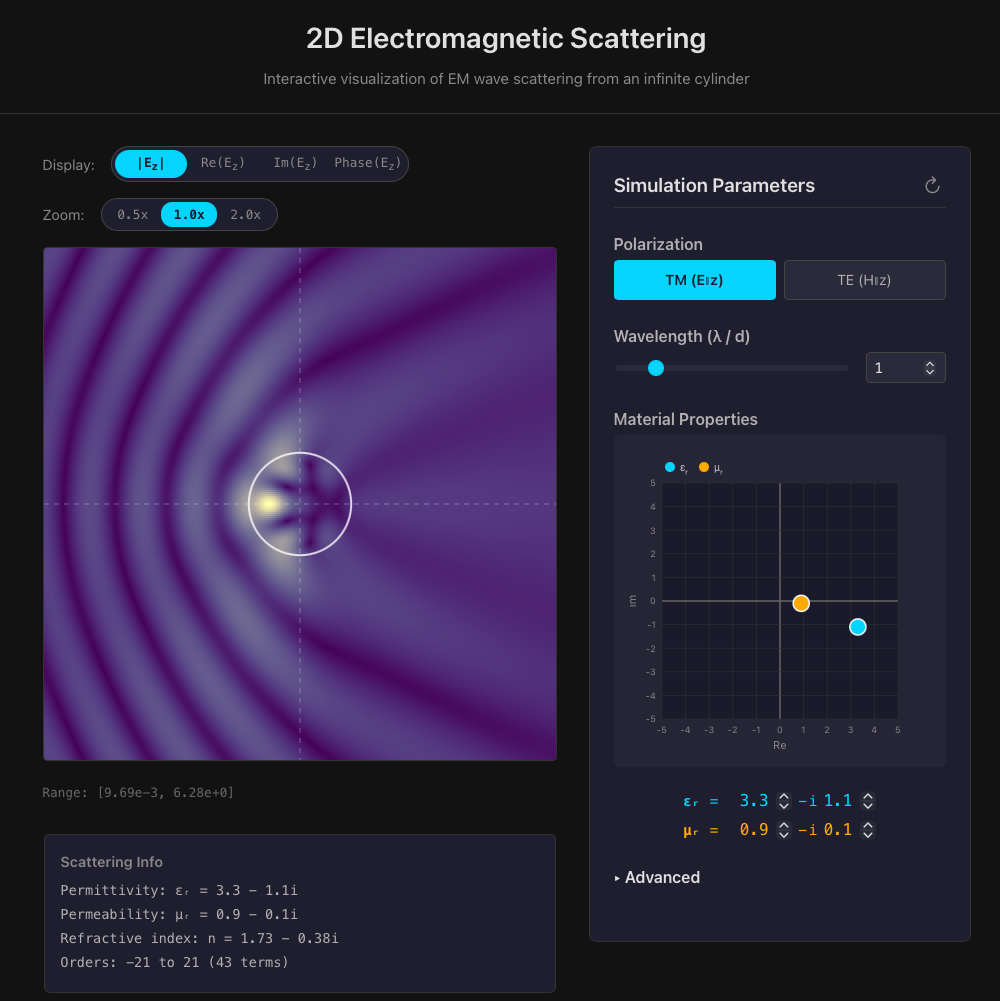
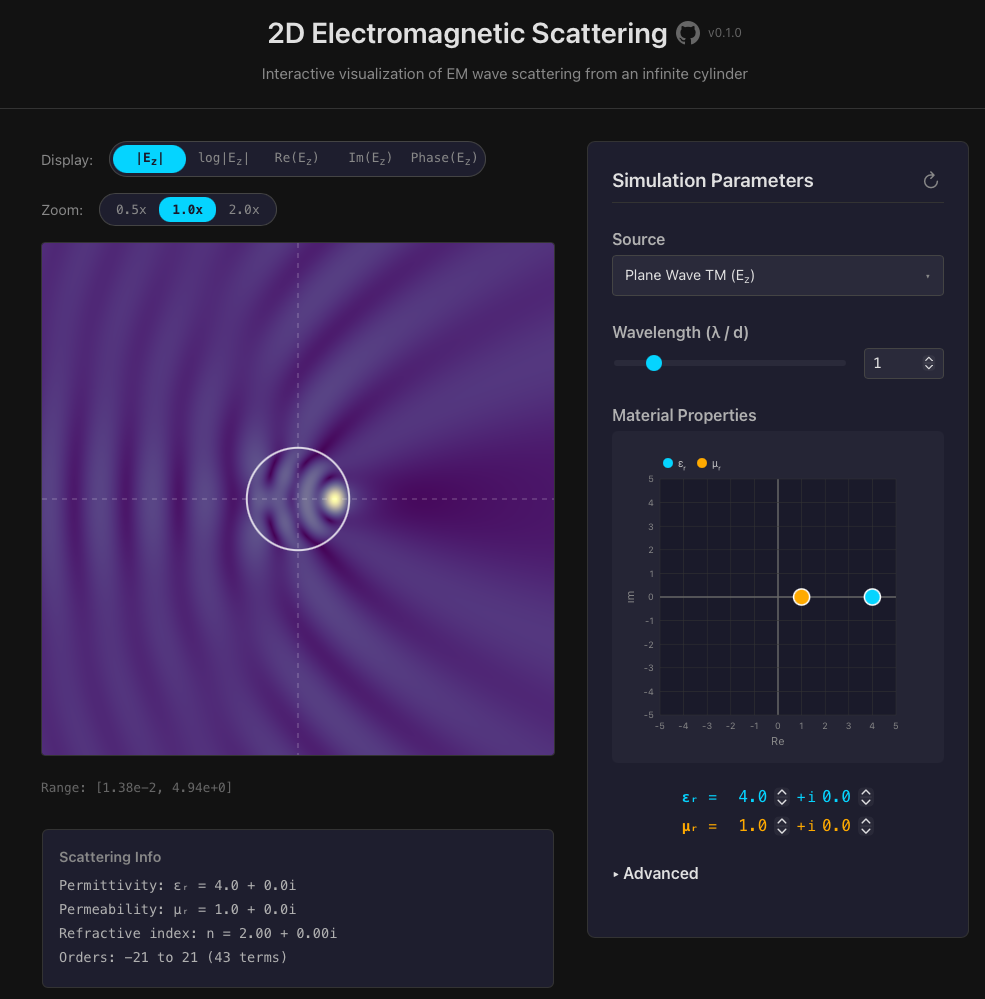
Update readme to reflect dipole additions and add details.

diff --git a/src/App.tsx b/src/App.tsx
@@ -56,7 +56,27 @@ function App() {
   return (
     <div className="app">
       <header className="app-header">
-        <h1>2D Electromagnetic Scattering</h1>
+        <h1>
+          2D Electromagnetic Scattering
+          <a
+            href="https://github.com/sdgorsky/webapp-single-cylinder-scattering-2D"
+            target="_blank"
+            rel="noopener noreferrer"
+            className="github-link"
+            title="View on GitHub"
+          >
+            <svg
+              viewBox="0 0 16 16"
+              width="24"
+              height="24"
+              fill="currentColor"
+              aria-hidden="true"
+            >
+              <path d="M8 0C3.58 0 0 3.58 0 8c0 3.54 2.29 6.53 5.47 7.59.4.07.55-.17.55-.38 0-.19-.01-.82-.01-1.49-2.01.37-2.53-.49-2.69-.94-.09-.23-.48-.94-.82-1.13-.28-.15-.68-.52-.01-.53.63-.01 1.08.58 1.23.82.72 1.21 1.87.87 2.33.66.07-.52.28-.87.51-1.07-1.78-.2-3.64-.89-3.64-3.95 0-.87.31-1.59.82-2.15-.08-.2-.36-1.02.08-2.12 0 0 .67-.21 2.2.82.64-.18 1.32-.27 2-.27.68 0 1.36.09 2 .27 1.53-1.04 2.2-.82 2.2-.82.44 1.1.16 1.92.08 2.12.51.56.82 1.27.82 2.15 0 3.07-1.87 3.75-3.65 3.95.29.25.54.73.54 1.48 0 1.07-.01 1.93-.01 2.2 0 .21.15.46.55.38A8.013 8.013 0 0016 8c0-4.42-3.58-8-8-8z" />
+            </svg>
+          </a>
+          <span className="version-tag">v{__APP_VERSION__}</span>
+        </h1>
         <p>
           Interactive visualization of EM wave scattering from an infinite
           cylinder

diff --git a/vite.config.ts b/vite.config.ts
@@ -4,6 +4,9 @@ import react from '@vitejs/plugin-react'
 import wasm from 'vite-plugin-wasm'
 import topLevelAwait from 'vite-plugin-top-level-await'
 import path from 'path'
+import { readFileSync } from 'fs'
+
+const pkg = JSON.parse(readFileSync('./package.json', 'utf-8'))
 
 // Plugin to provide "env" module for WASM imports (math functions from libm)
 function wasmEnvPlugin(): Plugin {
@@ -51,6 +54,9 @@ function wasmEnvPlugin(): Plugin {
 // https://vite.dev/config/
 export default defineConfig({
   base: process.env.CI ? '/Mie-Theory-2D-Cylinder/' : '/',
+  define: {
+    __APP_VERSION__: JSON.stringify(pkg.version),
+  },
   plugins: [
     react(),
     wasm(),

diff --git a/src/App.css b/src/App.css
@@ -14,6 +14,26 @@
   margin: 0;
   font-size: 1.8rem;
   color: #e0e0e0;
+  display: inline-flex;
+  align-items: center;
+  gap: 0.5rem;
+}
+
+.github-link {
+  color: #666;
+  transition: color 0.2s;
+  display: inline-flex;
+}
+
+.github-link:hover {
+  color: #e0e0e0;
+}
+
+.version-tag {
+  font-size: 0.75rem;
+  color: #666;
+  font-weight: 400;
+  letter-spacing: 0.02em;
 }
 
 .app-header p {

diff --git a/src/vite-env.d.ts b/src/vite-env.d.ts
@@ -1,0 +1,3 @@
+/// <reference types="vite/client" />
+
+declare const __APP_VERSION__: string;

diff --git a/README.md b/README.md
@@ -3,7 +3,7 @@
 ![Screenshot](figures/application_screenshot.png)
 
 ## About
-This is an interactive visualization of electromagnetic plane wave scattering from an infinite dielectric cylinder. The user can change key physical parameters and see how the electromagnetic scattering solution changes in real time. The tunable values are:
+This is an interactive visualization of electromagnetic scattering from an infinite dielectric cylinder. The user can change key physical parameters and see how the electromagnetic scattering solution changes in real time. The tunable values are:
 
 - $\lambda$:   The wavelength of incident light (relative to cylinder diameter)
 - $\epsilon_r$: The relative permittivity of the cylinder 
@@ -15,13 +15,14 @@ This is an interactive visualization of electromagnetic plane wave scattering fr
 This section outlines the physical scenario presented in this application. It lays out the geometry of the problem and gives a high-level overview of the Mie theory approach for its solution. Mie theory provides an exact analytical solution for electromagnetic scattering from canonical geometries such as cylinders and spheres. This is not intended to be a complete derivation, but an eager reader could easily find such descriptions with some literature search.
 
 ### Geometry
-We are interested in calculating the electromagnetic field solutions for a plane wave incident on an infinitely long cylinder embedded in free space. The cylinder's electric and magnetic properties are determined respectively by its complex relative permittivity $\epsilon_{r}$ and magnetic permeability $\mu_{r}$, both of which the user may tune. In the exterior free space these values are $\epsilon_{r}=\mu_{r}=1$.
+We are interested in calculating the electromagnetic field solutions for electromagnetic sources in the presence of an infinitely long cylinder embedded in free space. The cylinder's electric and magnetic properties are determined respectively by its complex relative permittivity $\epsilon_{r}$ and magnetic permeability $\mu_{r}$, both of which the user may tune. In the exterior free space these values are $\epsilon_{r}=\mu_{r}=1$.
 
 <p align="center">
   <img src="figures/geometry.svg" width="500" alt="Geometry">
 </p>
 
-The problem to be solved is as follows. Given the geometry and an incident plane wave $e^{i2\pi x/\lambda}$, solve Maxwell's equations to determine the total electric field $\mathbf{E}$ and magnetic field $\mathbf{H}$. Under these circumstances, Maxwell's equations are:
+The problem to be solved is as follows. Given the geometry and some radiating source, solve Maxwell's equations to determine the total electric field $\mathbf{E}$ and magnetic field $\mathbf{H}$. Under these circumstances, Maxwell's equations are:
+
 $$
 \begin{aligned}
 \nabla \cdot \mathbf{E}&=0 \\
@@ -40,18 +41,32 @@ $$ [\nabla^{2} + k^{2}(\mathbf{r})]\phi(\mathbf{r})=0 $$
 
 where $k(\mathbf{r})=2\pi n(\mathbf{r})/\lambda$ is the position-dependent wavenumber, $n(\mathbf{r})=\sqrt{\epsilon_{r}\mu_{r}}$ is the local index of refraction, and $\phi(\mathbf{r})$ represents the field oriented parallel to the cylinder axis. The orientation is a toggle option in the application, where $\phi(\mathbf{r})$ is either the magnetic field $H_z$ (TE: Transverse Electric) or $E_z$ (TM: Transverse Magnetic) as indicated in the geometry figure.
 
-The approach of Mie theory is to expand the field into three distinct components: the incident source field $\phi_{inc}$, the field scattered away from the cylinder boundary $\phi_{sca}$ (both exterior), and the field interior to the cylinder $\phi_{int}$.
+The approach of Mie theory is to decompose the total field into a known source field $\phi^{src}$ and unknown scattered fields — $\phi^{sca}_E$ scattered outward and $\phi^{sca}_I$ scattered inward from the cylinder boundary.
 
 These fields are each expanded into infinite series using the Bessel functions $J_{\nu}$ and $H_{\nu}$, which form a complete basis for solutions to the Helmholtz equation in cylindrical coordinates:
 
 $$
 \begin{aligned}
-\phi^{ext} &= \phi^{inc} + \phi^{sca} = \sum_{\nu=-\infty}^{\infty}a_{\nu}J_{\nu}(k_0r)e^{i\nu\theta} + b_{\nu}H_{\nu}(k_0r)e^{i\nu\theta} \\
-\phi^{int} &= \sum_{\nu=-\infty}^{\infty}c_{\nu}J_{\nu}(k_nr)e^{i\nu\theta}
+\phi_{E} &= \phi^{src}_{E} + \phi^{sca}_{E} = \sum_{\nu=-\infty}^{\infty}a_{E\nu}J_{\nu}(k_0r)e^{i\nu\theta} + b_{\nu}H_{\nu}(k_0r)e^{i\nu\theta} \\
+\phi_{I} &= \phi^{src}_{I} + \phi^{sca}_{I} = \sum_{\nu=-\infty}^{\infty}a_{I\nu}H_{\nu}(k_nr)e^{i\nu\theta} +c_{\nu}J_{\nu}(k_nr)e^{i\nu\theta}
 \end{aligned}
 $$
 
-The coefficients $a_{\nu}$ are determined by the source, and in the case of a plane wave incident in the $+x$ direction are $a_{\nu}=i^{\nu}$. Finally, the coefficients $\{b_{\nu}, c_{\nu}\}$ are determined by enforcing boundary conditions at the cylinder boundary. Once the coefficients are determined (up to a cutoff $\nu_{max}$), the fields are calculated from the series expansions.
+Here $\phi_{E}$ is the exterior field with contributions from an exterior source and a field scattered outward from the cylinder boundary, and $\phi_{I}$ is the interior field with contributions from an interior source and the field scattered inward from the cylinder boundary. For a given source only one of the source fields $\{ \phi^{src}_E,\phi^{src}_I \}$ will be non-zero. 
+
+The coefficients $\{a_{E\nu}, a_{I\nu}\}$ are the expansion coefficients of the source fields, which are generally known for common sources like planewaves and dipoles. Note that the exterior source expansion uses $J_\nu(k_0 r)$ for planewaves but $H_\nu(k_0 r)$ for dipole sources, reflecting the different radiation behavior of each.
+
+Finally, the coefficients $\{b_{\nu}, c_{\nu}\}$ are determined by enforcing boundary conditions at the cylinder boundary. Once the coefficients are determined (up to a cutoff $\nu_{max}$), the fields are calculated from the series expansions. Determining these coefficients is the central effort of Mie Theory.
+
+### Sources
+
+This application supports three source types.
+
+- Planewave
+- Axial Electric Dipole ($\mathbf{E}=E_z \mathbf{\hat z}$)
+- Transverse Electric Dipole ($\mathbf{E}=E_x \mathbf{\hat x} +E_y \mathbf{\hat y}$)
+
+The planewave is always an exterior source. On the other hand, the dipole sources may be positioned interior *or* exterior to the cylinder. All of these configurations are supported by the app.
 
 ## For Developers
 
@@ -80,7 +95,6 @@ make run # Run development server
 make build # Build for production
 
 make test
-make lint
 make format
 ```
 
